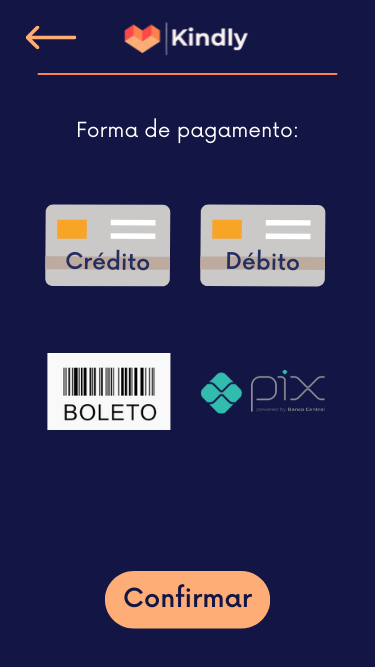
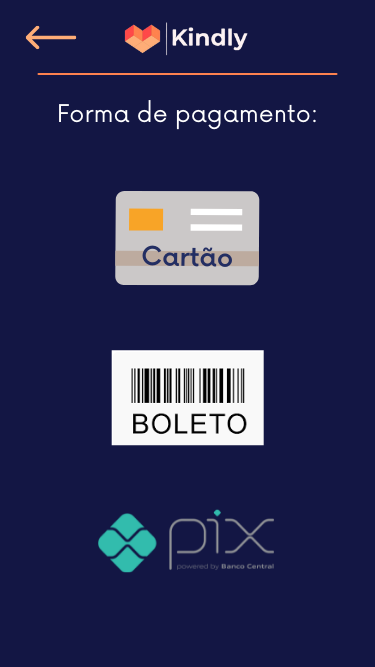
Add files via upload

diff --git a/KindlyHome.py b/KindlyHome.py
@@ -29,6 +29,9 @@ if bdOK:
 global regex
 regex = r'\b[A-Za-z0-9._%+-]+@[A-Za-z0-9.-]+\.[A-Z|a-z]{2,}\b'
 
+global nd
+nd = ""
+
 class Kindly():
     def __init__(self):
         self.jan = Tk()
@@ -816,9 +819,9 @@ class Kindly():
         self.listb1.place(relx = 0.01, rely = 0.23, relwidth = 0.98, relheight = 0.41)
         
     def pesquisa(self):
-        self.listb1.insert(END, "Nome do doadortuto")
-        self.listb1.insert(END, "Nome do doadortuto")
-        self.listb1.insert(END, "Nome do doadortuto")
+        self.listb1.insert(END, "Nome do instituto")
+        self.listb1.insert(END, "Nome do instituto")
+        self.listb1.insert(END, "Nome do instituto")
         
             
     def limpar131(self,evento=None):
@@ -1510,6 +1513,9 @@ class Kindly():
         self.lbl3.place(relx = 0.26, rely = 0.955, relwidth =0.55, relheight = 0.03)
         
     def teladoador10(self):
+        global nd
+        nd = 1
+        print(nd)
         self.img1 = PhotoImage(file = os.path.abspath("doador10.png"))
         self.img2 = PhotoImage(file = os.path.abspath("btnPerfilgg.PNG"))
         self.img3 = PhotoImage(file = os.path.abspath("btnSetinha.PNG"))
@@ -1559,6 +1565,8 @@ class Kindly():
             print(e)
 
     def teladoador11(self):  
+        
+        
         self.img1 = PhotoImage(file = os.path.abspath("doador11.png"))
         self.img2 = PhotoImage(file = os.path.abspath("btnCadastrar.PNG"))
         self.img3 = PhotoImage(file = os.path.abspath("btnSetinha.PNG"))
@@ -1571,7 +1579,7 @@ class Kindly():
         self.btn1 = Button(self.jan, bg = "#131644",bd = 0, activebackground = "#131644", image = self.img2 ,command = lambda: self.conexaod11())
         self.btn1.place(relx = 0.29, rely = 0.85, relwidth = 0.42, relheight = 0.15)
         
-        self.btn2 = Button(self.jan, bg = "#131644",bd = 0, activebackground = "#131644", image = self.img3 ,command = lambda: self.teladoador10())
+        self.btn2 = Button(self.jan, bg = "#131644",bd = 0, activebackground = "#131644", image = self.img3 ,command = lambda: self.escolhatl())
         self.btn2.place(relx = 0.055, rely = 0.025, relwidth = 0.15, relheight = 0.06)
         
 
@@ -1666,7 +1674,13 @@ class Kindly():
         x = entrada1.get()        
         x = x.upper()
         entrada1.set(x)
-    
+        
+    def escolhatl(self):
+        if nd == 1:
+            self.teladoador10()
+        if nd == 2:
+            self.teladoador16()
+            
     def arrumar(self,evento=None):
         self.numcard = entrada3.get()
         if len(self.numcard) < 20:
@@ -1907,7 +1921,10 @@ class Kindly():
             
             cursor.execute(f"insert into cartoes (nomeuser,cpfuser,numcard,cvccard,vencicard,bandeiracard,iduser) values (%s,%s,%s,%s,%s,%s,%s);",(self.nomescrito,self.cpfescrito, self.numcard, self.cvccard, self.vencimentocard,self.bandeiracard,self.iddoador))
             conexao.commit()
-            self.teladoador10()
+            if nd == 1:
+                self.teladoador10()
+            if nd == 2:
+                self.teladoador16()
         
     def teladoador12(self):  
         self.img1 = PhotoImage(file = os.path.abspath("doador12.png"))
@@ -1938,10 +1955,11 @@ class Kindly():
         self.listb1.place(relx = 0.01, rely = 0.23, relwidth = 0.98, relheight = 0.41)
         
     def pesquisa(self):
-        self.listb1.insert(END, "Nome do doadortuto")
-        self.listb1.insert(END, "Nome do doadortuto")
-        self.listb1.insert(END, "Nome do doadortuto")
+        self.listb1.insert(END, "Nome do instituto")
+        self.listb1.insert(END, "Nome do instituto")
+        self.listb1.insert(END, "Nome do instituto")
         
+
     def limpard121(self,evento=None):
         self.limpar(entrada1, "Digite aqui...")
     
@@ -2010,7 +2028,7 @@ class Kindly():
 
         self.btn1 = Button(self.jan, bg = "#131644",bd = 0, activebackground = "#131644", image = self.img2 ,command = lambda: self.apagar())
         self.btn1.place(relx = 0.1, rely = 0.81, relwidth = 0.2, relheight = 0.12)
-        self.btn2 = Button(self.jan, bg = "#131644",bd = 0, activebackground = "#131644", image = self.img3 ,command = lambda: self.teste())
+        self.btn2 = Button(self.jan, bg = "#131644",bd = 0, activebackground = "#131644", image = self.img3 ,command = lambda: self.teladoador15())
         self.btn2.place(relx = 0.7, rely = 0.81, relwidth = 0.2, relheight = 0.12)
         self.btn3 = Button(self.jan, bg = "#131644",bd = 0, activebackground = "#131644", image = self.img4 ,command = lambda: self.teladoador8())
         self.btn3.place(relx = 0.07, rely = 0.03, relwidth = 0.15, relheight = 0.06)
@@ -2077,5 +2095,62 @@ class Kindly():
     
     def apagar(self):
         entrada1.set("")
+    
+    def teladoador15(self):       
+        self.img1 = PhotoImage(file = os.path.abspath("Doador15.png"))
+        self.img2 = PhotoImage(file = os.path.abspath("btnCartao.PNG"))
+        self.img3 = PhotoImage(file = os.path.abspath("btnBoleto.PNG"))
+        self.img4 = PhotoImage(file = os.path.abspath("btnPix.PNG"))
+        self.img5 = PhotoImage(file = os.path.abspath("btnSetinha.PNG"))
         
+        self.lbl1 = Label(self.jan, image = self.img1)
+        self.lbl1.place(relx = 0, rely = 0, relwidth =1, relheight = 1)
+    
+        
+        self.btn1 = Button(self.jan, bg = "#131644",bd = 0, activebackground = "#131644", image = self.img2 ,command = lambda: self.teladoador16())
+        self.btn1.place(relx = 0.298, rely = 0.26, relwidth = 0.4, relheight = 0.2)
+        
+        self.btn2 = Button(self.jan, bg = "#131644",bd = 0, activebackground = "#131644", image = self.img3 ,command = lambda: self.teste())
+        self.btn2.place(relx = 0.29, rely = 0.48, relwidth = 0.42, relheight = 0.22)
+        
+        self.btn3 = Button(self.jan, bg = "#131644",bd = 0, activebackground = "#131644", image = self.img4 ,command = lambda: self.teste())
+        self.btn3.place(relx = 0.255, rely = 0.71, relwidth = 0.5, relheight = 0.16)
+        
+        self.btn4 = Button(self.jan, bg = "#131644",bd = 0, activebackground = "#131644", image = self.img5 ,command = lambda: self.teladoador14())
+        self.btn4.place(relx = 0.055, rely = 0.025, relwidth = 0.15, relheight = 0.06)
+        
+    def teladoador16(self):   
+        global nd
+        nd = 2
+        self.img1 = PhotoImage(file = os.path.abspath("Doador16.png"))
+        self.img2 = PhotoImage(file = os.path.abspath("btnPagar.PNG"))
+        self.img3 = PhotoImage(file = os.path.abspath("btnSetinha.PNG"))
+        self.img4 = PhotoImage(file = os.path.abspath("btnAddcartao.PNG"))
+    
+        self.lbl1 = Label(self.jan, image = self.img1)
+        self.lbl1.place(relx = 0, rely = 0, relwidth =1, relheight = 1)
+           
+        self.listb1 = Listbox(self.jan, bg = "#131644",fg = "white", font = "Century\ Gothic 14", bd = 0, selectbackground = "#FEAD77", highlightbackground = "#FEAD77")
+        self.listb1.place(relx = 0.15, rely = 0.21, relwidth = 0.7, relheight = 0.4)
+        
+        self.btn1 = Button(self.jan, bg = "#131644",bd = 0, activebackground = "#131644", image = self.img2 ,command = lambda: self.teladoador17())
+        self.btn1.place(relx = 0.3, rely = 0.78, relwidth = 0.4, relheight = 0.14)
+        
+        self.btn2 = Button(self.jan, bg = "#131644",bd = 0, activebackground = "#131644", image = self.img3 ,command = lambda: self.teladoador15())
+        self.btn2.place(relx = 0.055, rely = 0.025, relwidth = 0.15, relheight = 0.06)
+        
+        self.btn3 = Button(self.jan, bg = "#131644",bd = 0, activebackground = "#131644", image = self.img4 ,command = lambda: self.teladoador11())
+        self.btn3.place(relx = 0.14, rely = 0.64, relwidth = 0.72, relheight = 0.15)
+        
+        self.conexaod10()
+    
+    def teladoador17(self):    
+        self.img1 = PhotoImage(file = os.path.abspath("Doador17.png"))
+    
+        self.lbl1 = Label(self.jan, image = self.img1)
+        self.lbl1.place(relx = 0, rely = 0, relwidth =1, relheight = 1)
+        
+        t = Timer(2, self.teladoador8)
+        t.start()
+
 Kindly()
